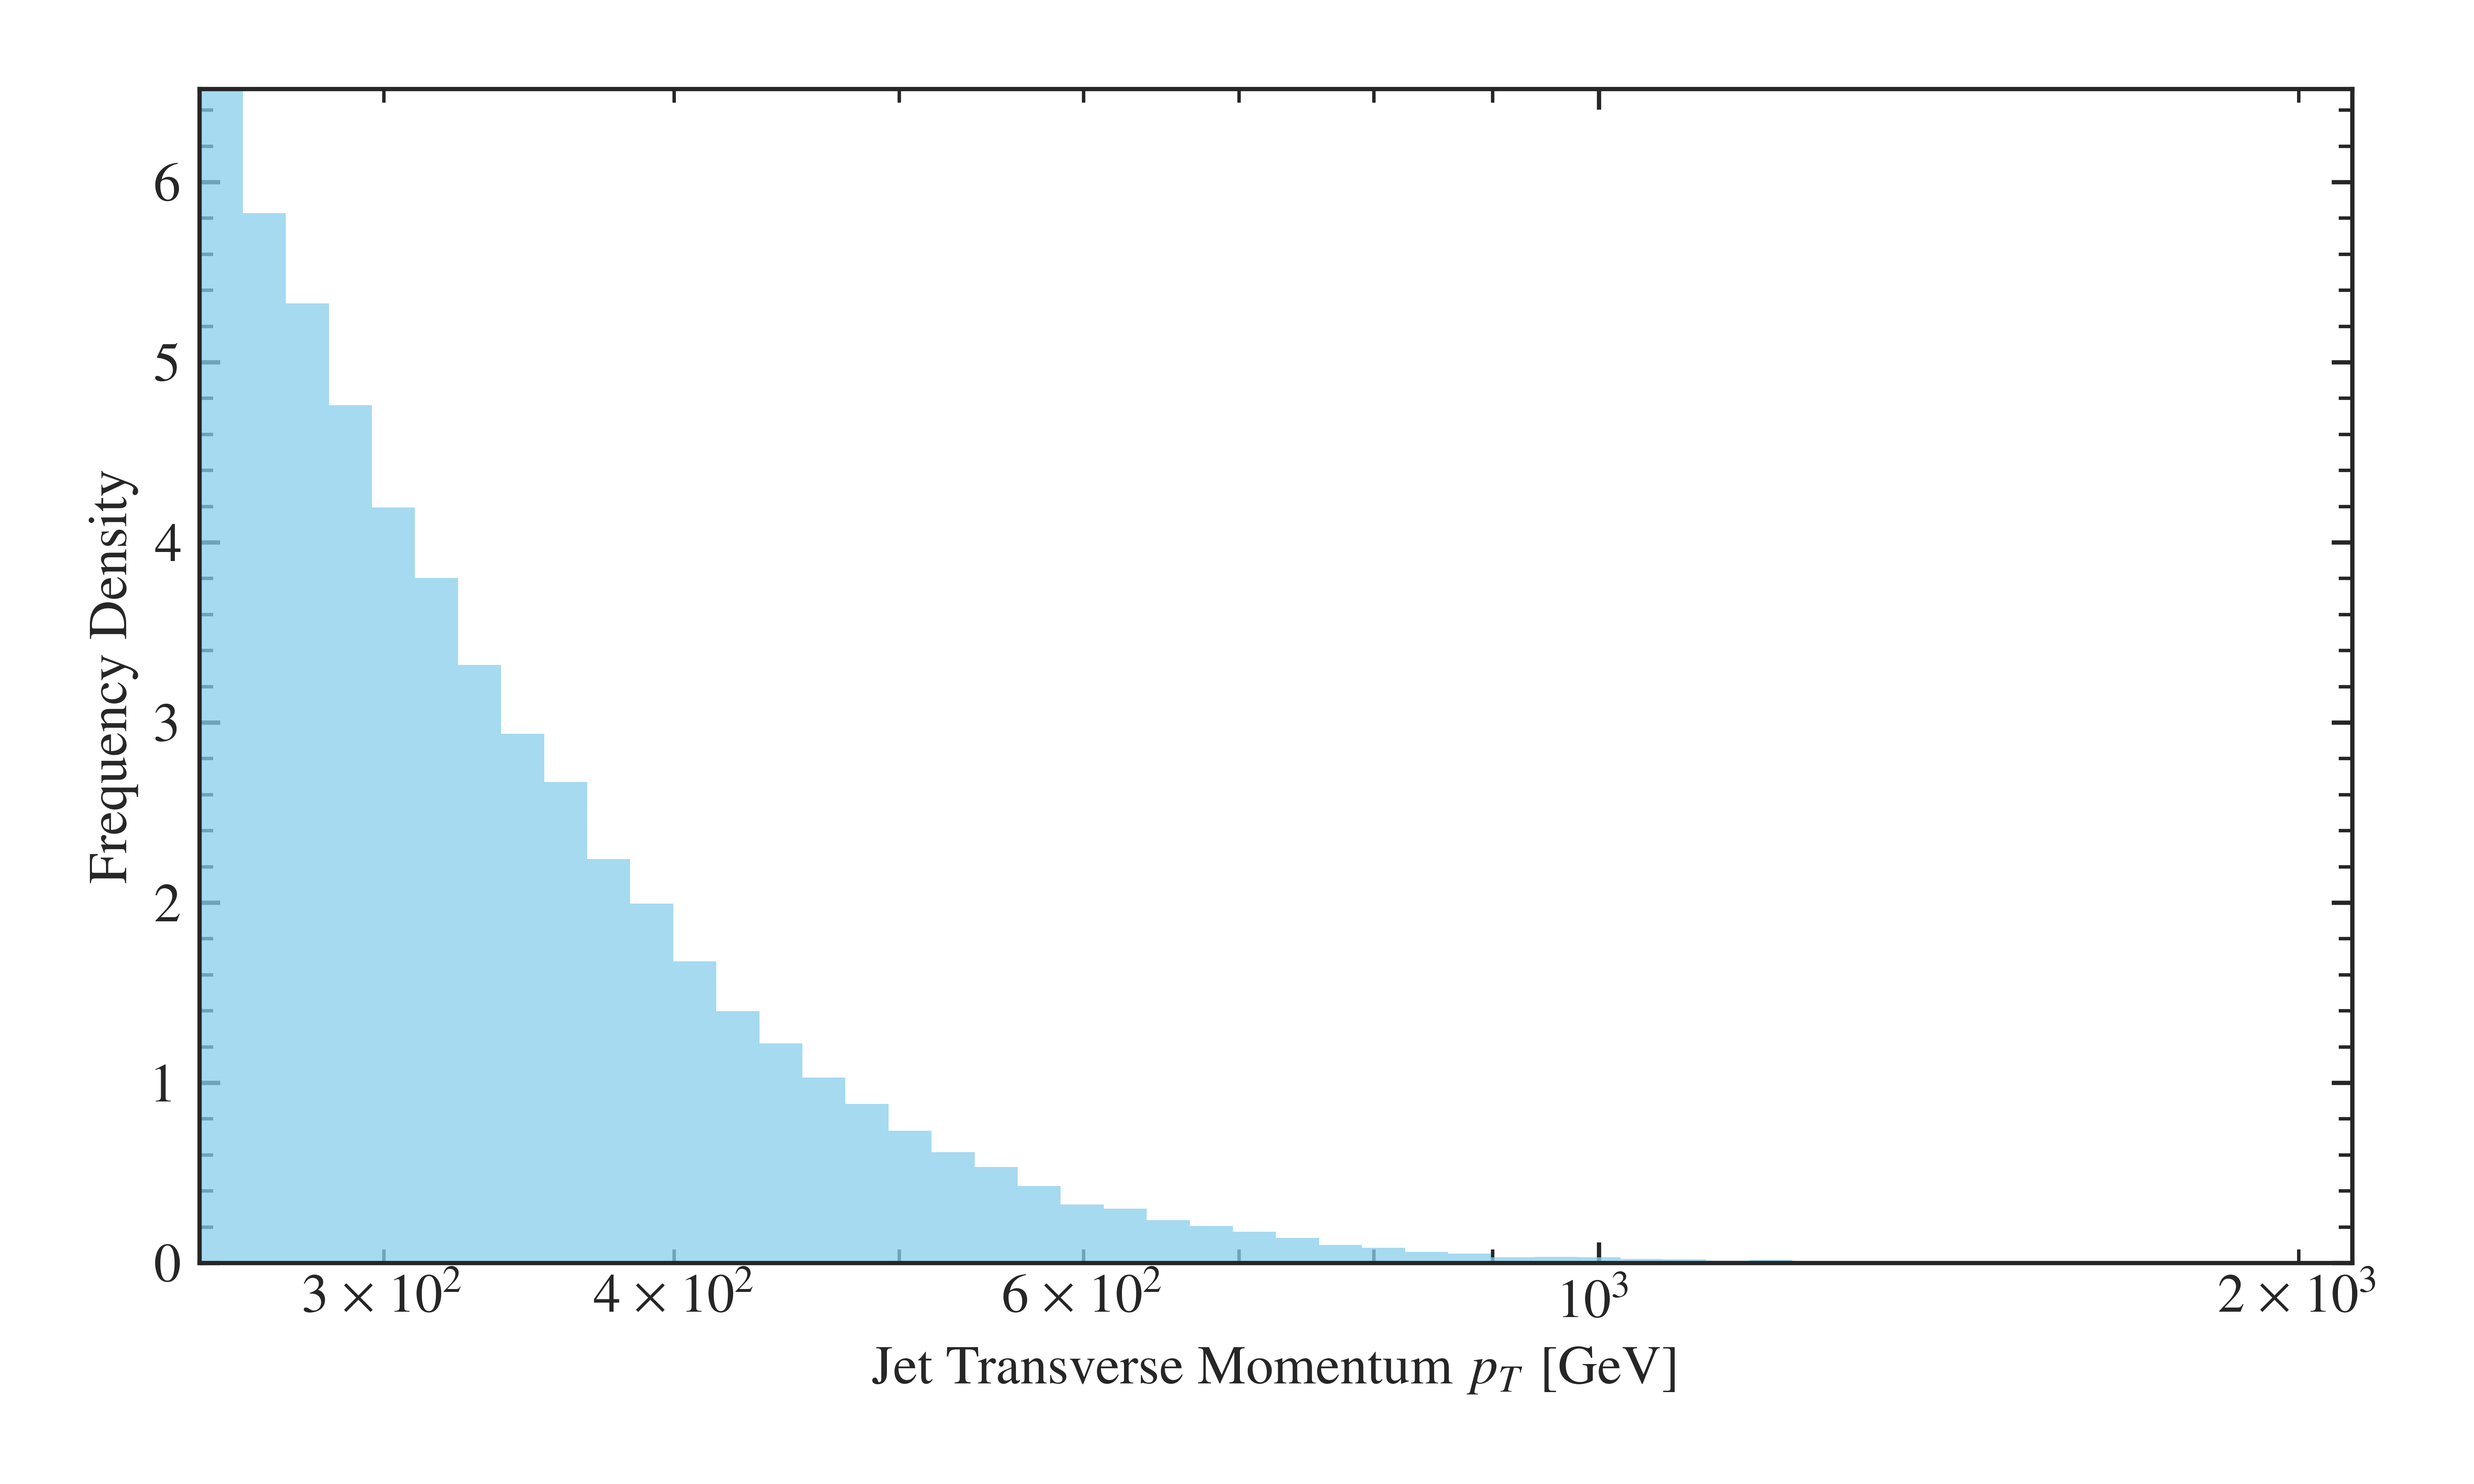
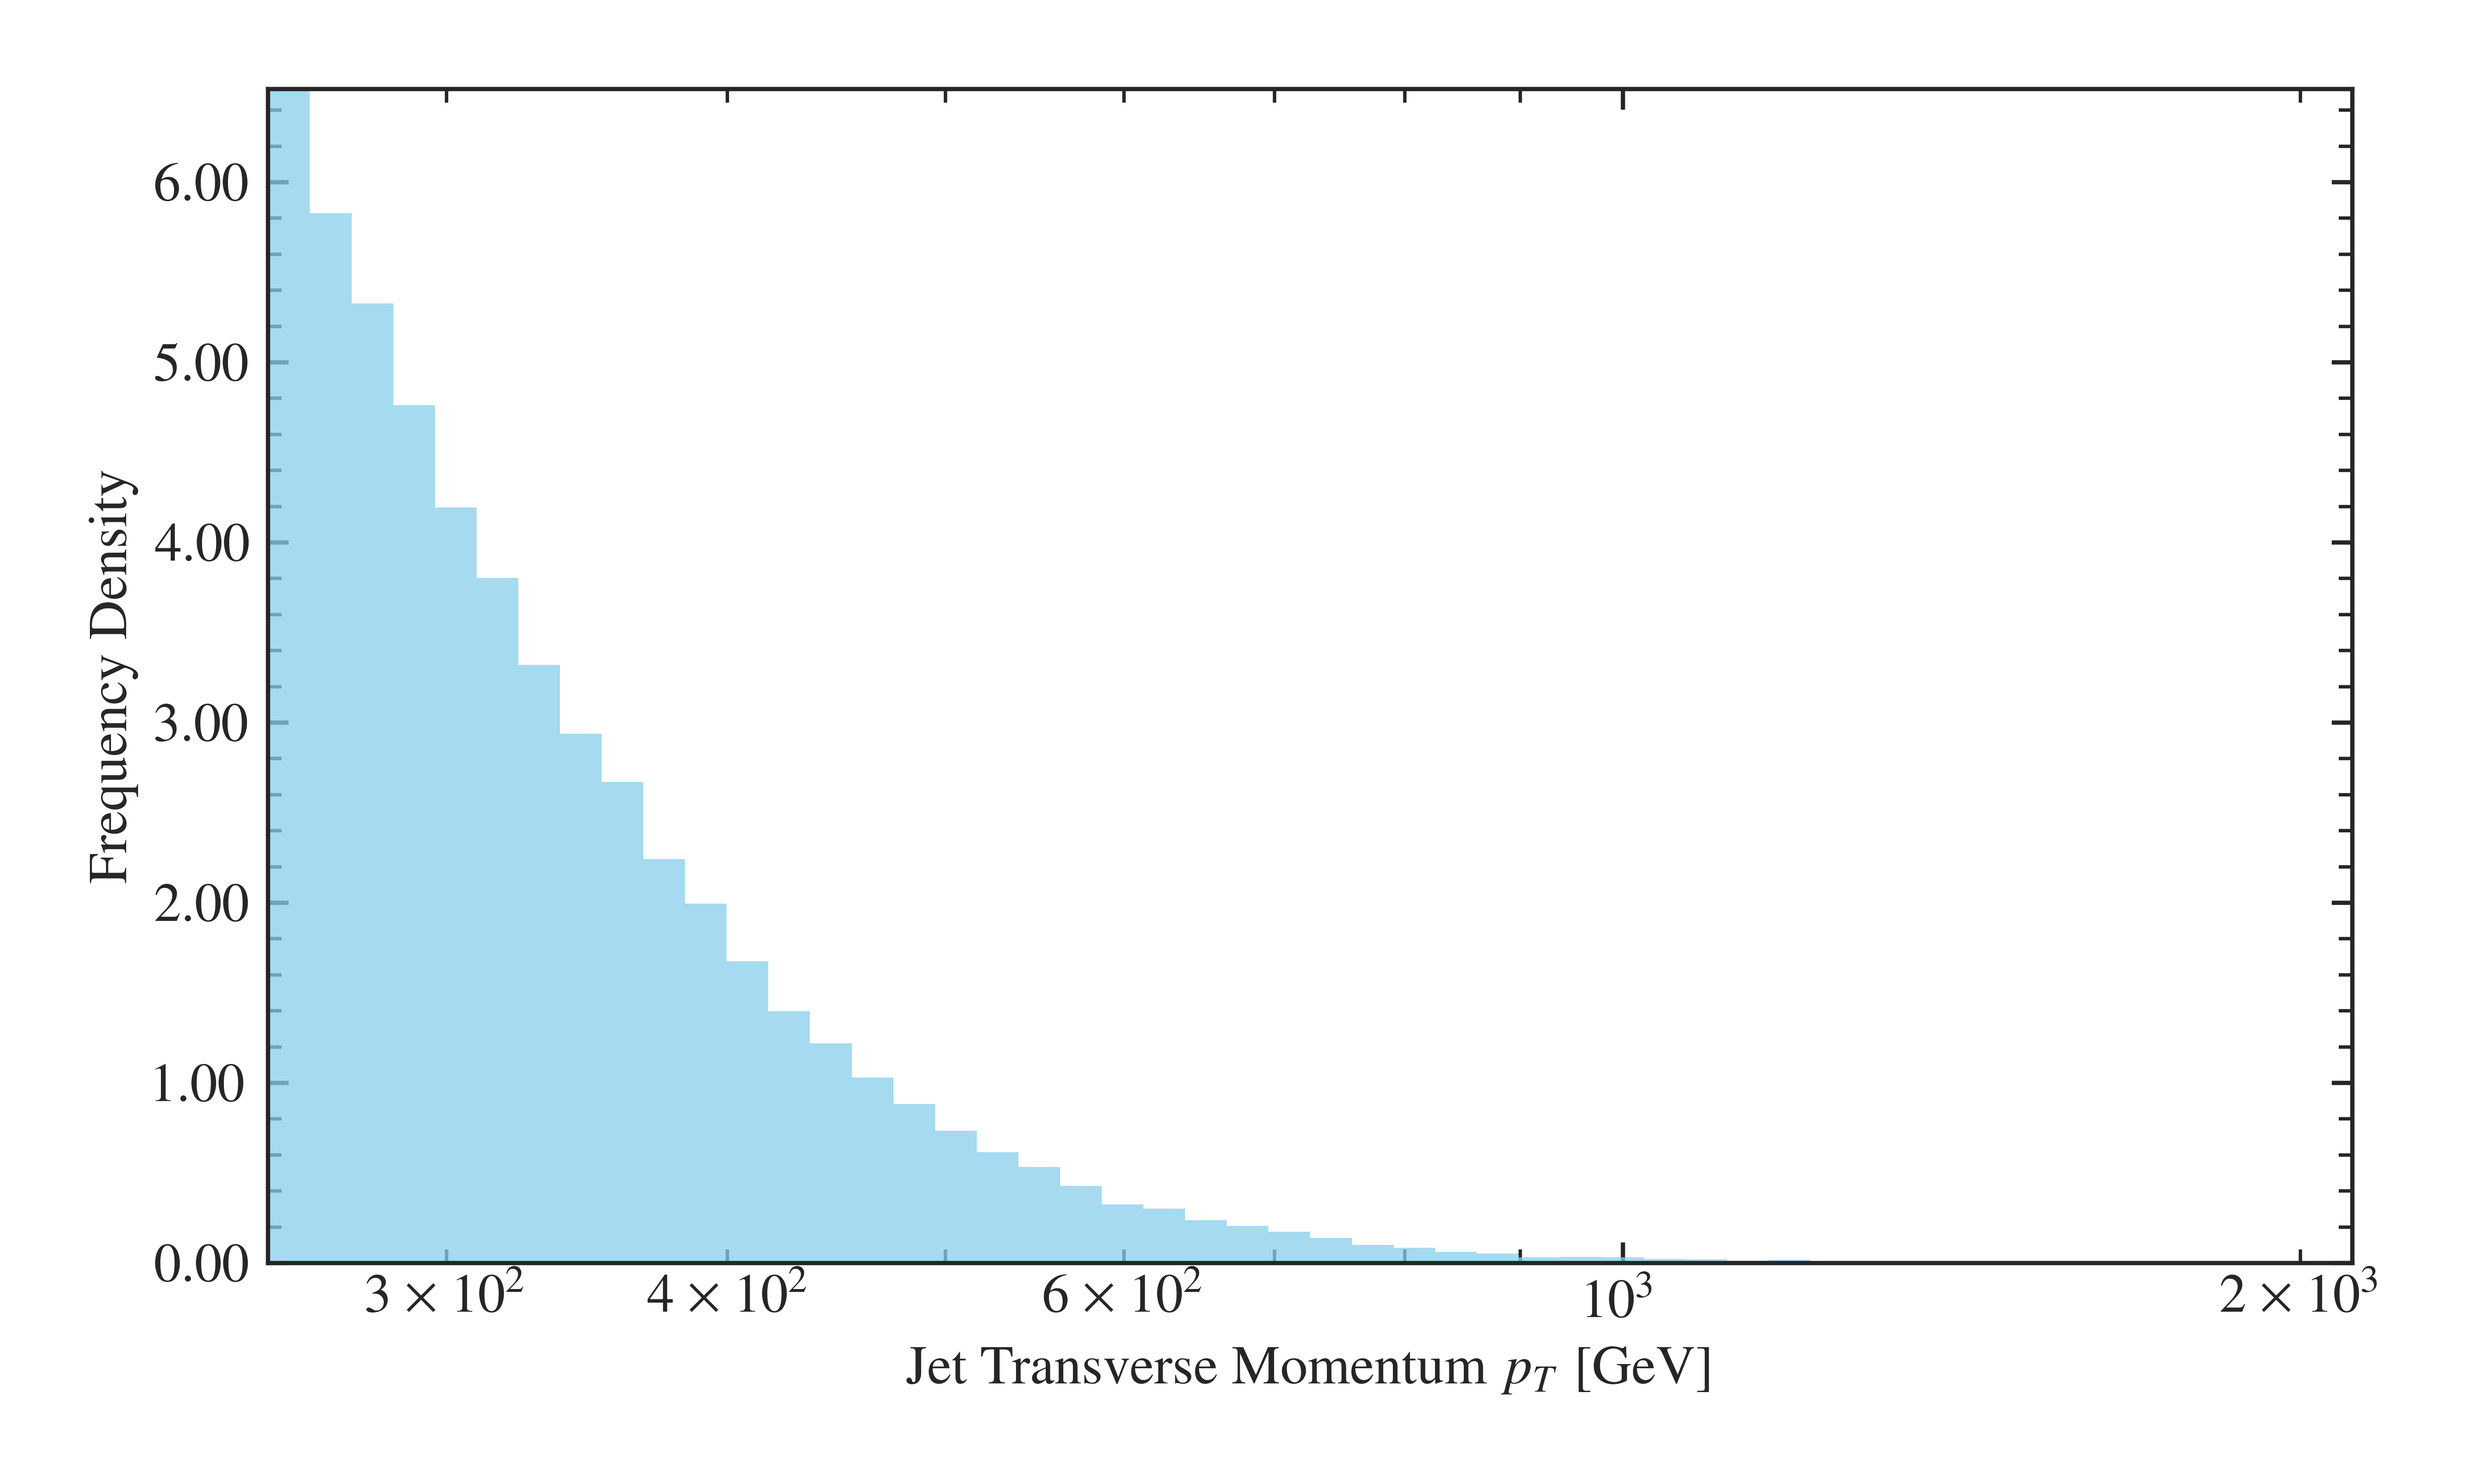
Speedup 1D plot code and improve axes on multiplot

diff --git a/DDPMLHC/generate_plots/generate_1d_plots.py b/DDPMLHC/generate_plots/generate_1d_plots.py
@@ -5,6 +5,7 @@ import numpy as np
 import matplotlib as mpl
 import matplotlib.pyplot as plt
 import seaborn as sb
+import multiprocessing
 
 # Local imports
 from DDPMLHC.config import *
@@ -53,47 +54,74 @@ DEFAULT_PLOT_PARAMS = {
     "kde": False,
     "stat": "density",  # Equivalent to `density=True` in plt.hist
 }
+class Set2DP(mpl.ticker.ScalarFormatter):
+   def _set_format(self):
+      self.format = "%.2f"
 
-def plot_1D_hist(name, data, xlog=False, plot_params=DEFAULT_PLOT_PARAMS, save_path=save_path, save_filename="out", x_min=None, x_max=None, ax=None, plot_ylabel=True):
+def plot_1D_hist(name, data, xlog=False, plot_params=DEFAULT_PLOT_PARAMS, save_path=save_path, save_filename="out", x_min=None, x_max=None, ax=None, plot_ylabel=True, manual_xticklabel =  False, xtick_labels = None):
     """Plot a 1D histogram. Optionally plot on a provided axis."""
     if ax is None:
         fig, ax = plt.subplots(figsize=(10, 6))  # Create a new figure if no axes provided
     else:
         fig = None  # If ax provided, do not create a new figure
-    
     # Copy default params if not already assigned
     plot_params.update({ k:v for k, v in DEFAULT_PLOT_PARAMS.items() if k not in plot_params})
-
     sb.histplot(data, ax=ax,log_scale=(xlog, False), **plot_params)
 
     ax.set_xlabel(name, fontsize=16)
     ax.set_xlim(left=x_min, right=x_max)
+    set_y_2p = Set2DP()
+    ax.yaxis.set_major_formatter(set_y_2p)
     if plot_ylabel:  # Show y-label only for leftmost plots
         ax.set_ylabel("Frequency Density", fontsize=16)
     else:  # No ylabel for other plots
         ax.set_ylabel("")
-
+    
     if save_path and fig:
         fig.savefig(f"{save_path}/{save_filename}.png", dpi=600)
+    if manual_xticklabel and xtick_labels is not None:
+        ax.set_xticklabels(xtick_labels)
+    if name == "Jet Transverse Momentum $p_T$ [GeV]":
+        # Manually set labels to fit properly for the subplots
+        labels = [item.get_text() for item in ax.get_xticklabels()]
+        # ax.xaxis.set_major_locator(mpl.ticker.LogLocator(base=10.0, subs=None))
+        minor_locator = mpl.ticker.LogLocator(base=10.0, subs=[3, 6, 10])
+        ax.xaxis.set_minor_locator(minor_locator)
+        # ax.set_xticklabels(labels)
 
     return fig, ax
 
 # Plot singles
 
+# print("Plotting single histograms...")
+hist_data = [
+    ("Momentum $p$ [GeV]", p, True, {}, save_path, "p"),
+    ("Pseudorapidity $\eta$", eta, False, {}, save_path, "eta"),
+    ("Transverse Momentum $p_T$ [GeV]", p_T, True, {}, save_path, "pT"),
+
+    ("Jet Mass [GeV]", jet_mass, False, {}, save_path, "jet_mass", None, 250),
+    ("Jet Pseudorapidity $\eta$", jet_eta, False, {"bins": 50}, save_path, "jet_eta"),
+    ("Jet Transverse Momentum $p_T$ [GeV]", jet_pT, True, {"bins": 50}, save_path, "jet_pT")
+]
+
+# plot_1D_hist("Momentum $p$ [GeV]", p, save_filename="p", xlog=True)
+# plot_1D_hist("Pseudorapidity $\eta$", eta, save_filename="eta", )
+# plot_1D_hist("Transverse Momentum $p_T$ [GeV]", p_T, save_filename="pT", xlog=True)
+
+# plot_1D_hist("Jet Mass [GeV]", jet_mass, save_filename="jet_mass", x_max=250)
+# plot_1D_hist("Jet Pseudorapidity $\eta$", jet_eta, save_filename="jet_eta", plot_params={"bins": 50})
+# plot_1D_hist("Jet Transverse Momentum $p_T$ [GeV]", jet_pT, save_filename="jet_pT", xlog=True, plot_params={"bins": 50})
 print("Plotting single histograms...")
 
-plot_1D_hist("Momentum $p$ [GeV]", p, save_filename="p", xlog=True)
-plot_1D_hist("Pseudorapidity $\eta$", eta, save_filename="eta", )
-plot_1D_hist("Transverse Momentum $p_T$ [GeV]", p_T, save_filename="pT", xlog=True)
-
-plot_1D_hist("Jet Mass [GeV]", jet_mass, save_filename="jet_mass", x_max=250)
-plot_1D_hist("Jet Pseudorapidity $\eta$", jet_eta, save_filename="jet_eta", plot_params={"bins": 50})
-plot_1D_hist("Jet Transverse Momentum $p_T$ [GeV]", jet_pT, save_filename="jet_pT", xlog=True, plot_params={"bins": 50})
+with multiprocessing.Pool(processes=len(hist_data)) as pool:
+    results = pool.starmap(plot_1D_hist, hist_data)
+pool.close()
+pool.join()
 
 # Plot multiplot
 
-print("Plotting combined histogram...")
 
+    
 hist_data = [
     ("Momentum $p$ [GeV]", p, {"xlog": True}),
     ("Pseudorapidity $\eta$", eta, {}),
@@ -101,11 +129,13 @@ hist_data = [
 
     ("Jet Mass [GeV]", jet_mass, {"x_max": 250}),
     ("Jet Pseudorapidity $\eta$", jet_eta, {"bins": 50}),
-    ("Jet Transverse Momentum $p_T$ [GeV]", jet_pT, {"xlog": True, "bins": 50})
+    ("Jet Transverse Momentum $p_T$ [GeV]", jet_pT, {"xlog": True, "bins": 50},)
 ]
+print("Plotting combined histogram...")
 
 num_rows, num_cols = 2, 3
 fig, axes = plt.subplots(num_rows, num_cols, figsize=(15, 10))
+plt.tight_layout()
 axes = axes.flatten()  # Flatten to iterate over axes
 
 for idx, (ax, (name, data, params)) in enumerate(zip(axes, hist_data)):
